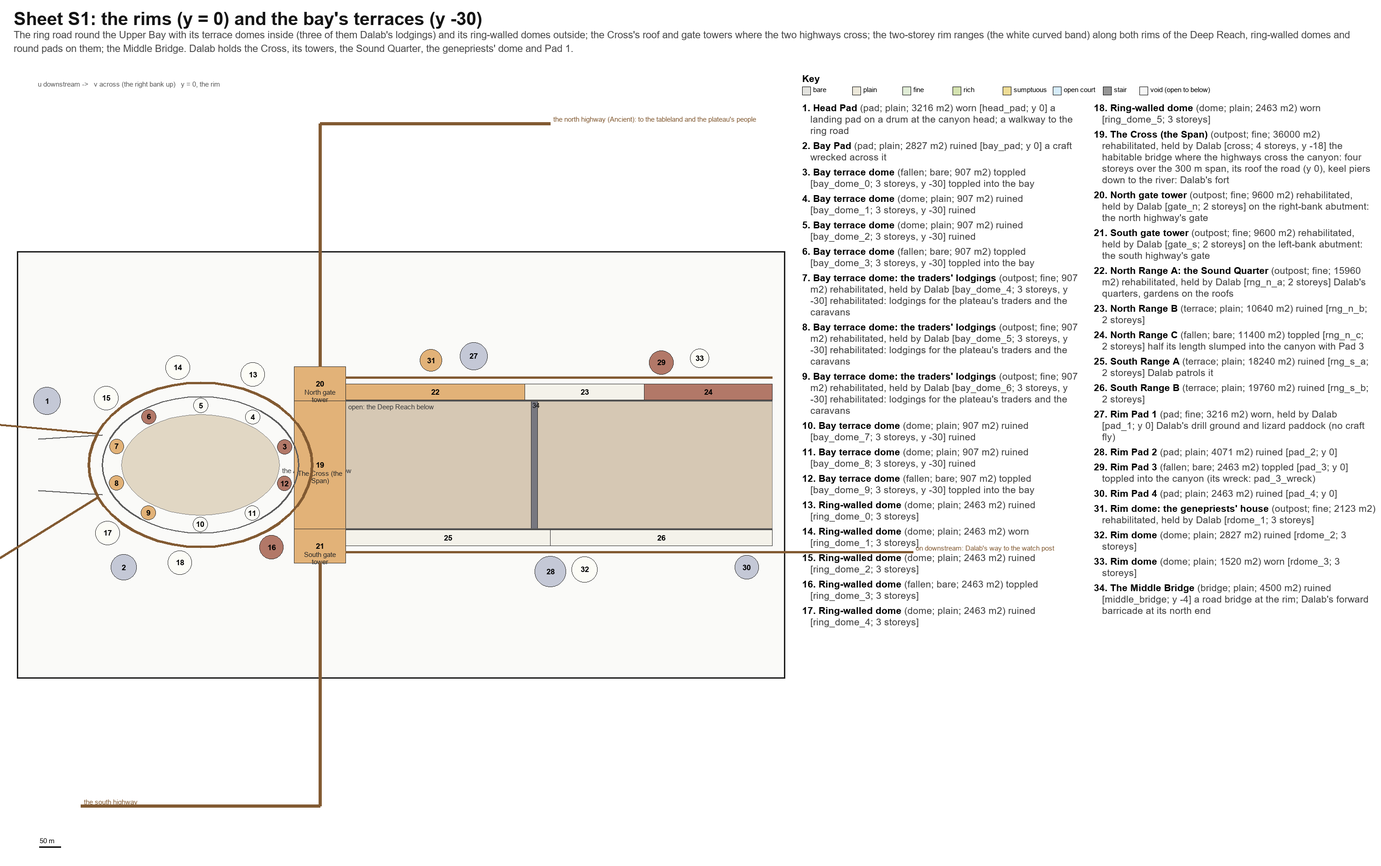
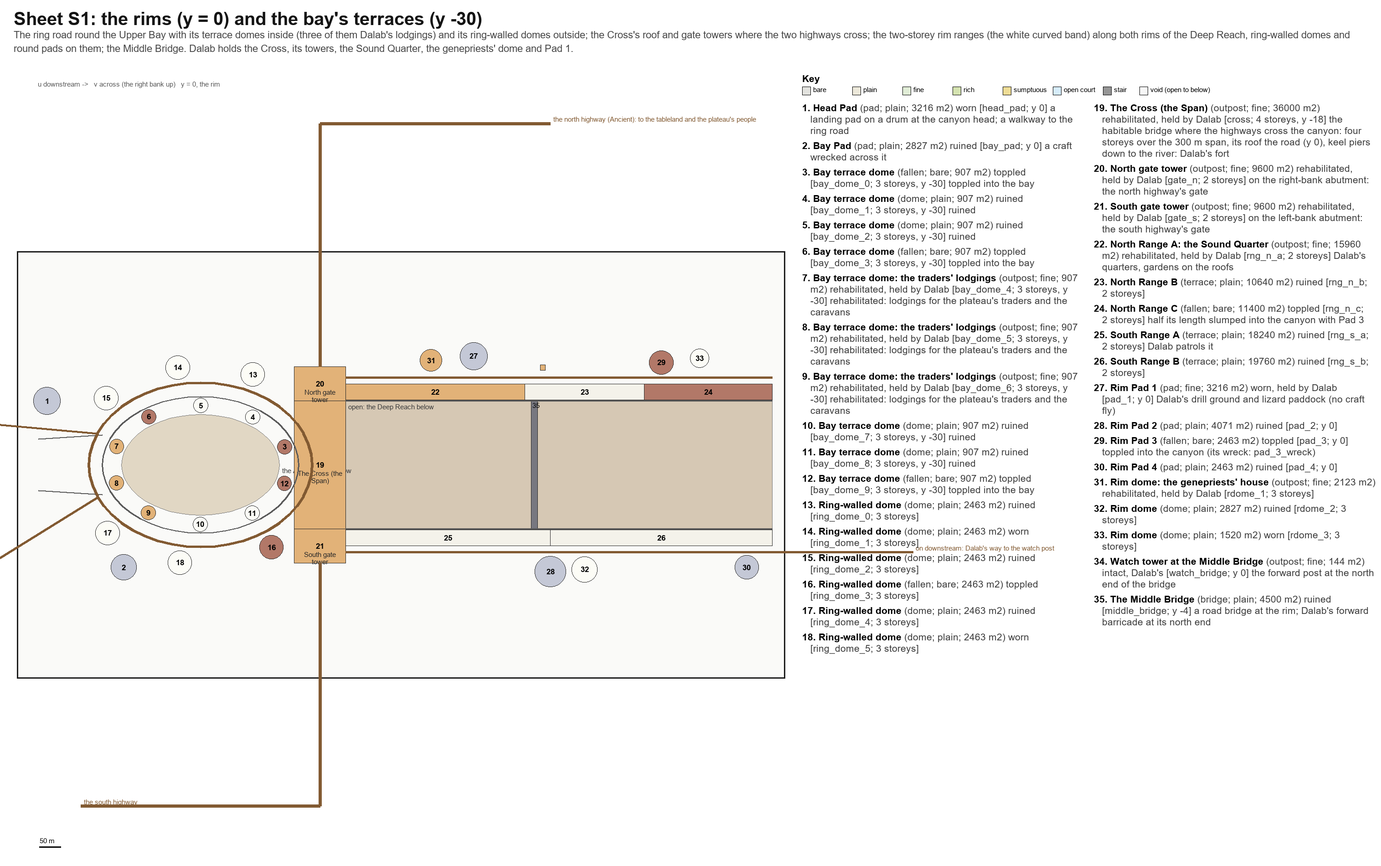
settlements/span: SP4, Dalab's fort and trading post from the Dalab set
The page reads the Dalab set in place (settlements/dalab/src: its Vernacular helpers, items,
dwellings, trade, town types, civic and sacred buildings, its library pack in a second sidecar)
and places Dalab's parts through VERN.place: the trading post on the Apron building by building
(market, customs, two warehouses, two inns, tavern, bath house, traders' houses and row, two
orchards, the caravan yard, the shrine), the mound, a watch tower at the Middle Bridge's north
end. The layout's records take each def's own footprint, and a page check holds them to it.
build.py now fails on a top-level name two fragments declare (Dalab's MATLIB_BOUND is renamed
at build time; Span takes Dalab's vWorldUV, not core/materials' opt-in one). The Line, banners
and the orchards' trees are left (KNOWN_ISSUES). kits/ancients span parts: the Cross's
sub-frames save and restore KXF instead of calling useGroupXF/endGroupXF, which Dalab's helpers
turn into a stack (same geometry: 428,372 triangles, verify --assert passes).

Changed region(s): [[0.7756, 0.1242, 0.9927, 0.7142], [0.5894, 0.7142, 0.6515, 0.7763], [0.6825, 0.7142, 0.7135, 0.7453]]

diff --git a/settlements/span/src/30-span-layout.js b/settlements/span/src/30-span-layout.js
@@ -64,7 +64,7 @@ P('lake_ring', 'The Lake Ring', 'ringsite', C(-1500, -570, 150), { h: 14, st: 3,
 P('weir', 'The Weir', 'weir', B(-1070, -1030, -90, 90), { y: -8, h: 10, state: 'worn', key: 'anc_weir', walk: false, types: ['infrastructure'], sheets: S0, note: 'the sluice dam at the lake\'s outlet: holds the lake 8 m up; Pan Riba spills through it' });
 P('dome_lone_1', 'Lone dome', 'dome', C(-1200, 520, 16), { h: 14, st: 3, home: .5, state: 'worn', key: 'anc_ring_dome', sheets: S0 });
 P('dome_lone_2', 'Lone dome', 'dome', C(-760, -560, 14), { h: 6, state: 'toppled', key: 'anc_ring_dome', walk: false, sheets: S0 });
-P('mound', 'Dalab\'s mound', 'mound', C(-300, -430, 40), { h: 16, by: 'dalab', state: 'intact', key: 'dalab_mound', types: ['religious'], sheets: S0, note: 'an earth mound imitating the domes, facing the lab (south-west): the priest-captain communes here' });
+P('mound', 'Dalab\'s mound', 'mound', B(-338, -262, -475, -385), { h: 28, by: 'dalab', state: 'intact', key: 'dalab_mound', types: ['religious'], sheets: S0, note: 'an earth mound imitating the domes, facing the lab (south-west): the priest-captain communes here' });
 
 // ---------------------------------------------------------------- the canyon head and the Upper Bay
 P('head_pad', 'Head Pad', 'pad', C(-880, 150, 32), { h: 9, state: 'worn', key: 'anc_pad_drum', types: ['infrastructure'], sheets: ['S0', 'S1'], note: 'a landing pad on a drum at the canyon head; a walkway to the ring road' });
@@ -88,21 +88,27 @@ P('bay_pad', 'Bay Pad', 'pad', C(-700, -240, 30), { h: 8, state: 'ruined', key: 
 
 // ---------------------------------------------------------------- the Apron: Dalab's trading post (sheet S2)
 P('apron', 'The Apron', 'deck', O(-520, 0, 185, 118), { y: -45, h: 2, state: 'rehab', held: true, key: 'anc_apron', types: ['plaza'], dress: false, sheets: S2, note: 'the bay\'s deck over the river\'s slot, cleared by Dalab for the trading post' });
-P('apron_wreck', 'Derelict craft', 'craft', C(-620, 75, 14), { y: -45, h: 9, state: 'ruined', in: 'apron', held: true, walk: false, dress: false, key: 'anc_craft', sheets: S2, note: 'a lander, broken-backed: the one wreck Dalab left (too heavy to strip)' });
+P('apron_wreck', 'Derelict craft', 'craft', C(-560, 80, 14), { y: -45, h: 9, state: 'ruined', in: 'apron', held: true, walk: false, dress: false, key: 'anc_craft', sheets: S2, note: 'a lander, broken-backed: the one wreck Dalab left (too heavy to strip)' });
 P('basin_portal', 'The Basin Tunnel\'s upper portal', 'portal', C(-570, -160, 18), { y: -45, h: 14, state: 'intact', held: true, key: 'anc_tunnel_portal', types: ['infrastructure', 'military'], sheets: ['S0', 'S2'], note: 'in the bay\'s left wall: the Ancient road tunnel down to the basin, intact, cleared; Dalab\'s gate and wardens' });
 P('tunnel_road', 'The Tunnel Road', 'ramp', B(-580, -560, -142, -116), { y: -45, h: 1, state: 'intact', held: true, key: 'anc_ramp', types: ['infrastructure'], sheets: S2, note: 'the ramp from the portal down onto the Apron' });
 function T(id, name, key, b, o){ o.in = 'apron'; o.y = -45; o.by = 'dalab'; o.state = 'intact'; o.key = key; o.sheets = S2; o.dress = false; return P(id, name, 'dalab', b, o); }
-T('market', 'Market', 'dalab_market_large', B(-560, -480, -60, 10), { h: 8, types: ['market'], note: 'the trading post\'s heart: where Dalab trades with the plateau\'s people (who they are: TBD)' });
-T('customs', 'Customs', 'dalab_scribes', B(-545, -521, -100, -80), { h: 9, types: ['civic'], note: 'the scribes\' hall at the tunnel road: tolls, tallies, the priests\' cut' });
-T('warehouses', 'Warehouses', 'dalab_warehouse', B(-470, -410, -90, -50), { h: 9, types: ['industry'] });
+// each a building of the Dalab set (settlements/dalab, read in place) at its own footprint (its def's w by d), its front
+// toward the Apron's long axis; SP4 (2026-10-27)
+T('market', 'Market', 'dalab_market_large', B(-552, -488, -57, 7), { h: 8, types: ['market'], note: 'the trading post\'s heart: where Dalab trades with the plateau\'s people (who they are: TBD)' });
+T('customs', 'Customs', 'dalab_scribes', B(-557, -533, -100, -80), { h: 9, types: ['civic'], note: 'the scribes\' hall at the tunnel road: tolls, tallies, the priests\' cut' });
+T('warehouse_1', 'Warehouse', 'dalab_warehouse', B(-484, -456, -85, -65), { h: 9, types: ['industry'] });
+T('warehouse_2', 'Warehouse', 'dalab_warehouse', B(-454, -426, -85, -65), { h: 9, types: ['industry'] });
 T('inn_tunnel', 'Inn of the tunnel', 'dalab_inn', B(-640, -608, -80, -50), { h: 10, types: ['inn'], note: 'lizard stalls and a lodge: the tunnel\'s caravans' });
 T('inn_plateau', 'Inn of the plateau', 'dalab_inn', B(-460, -428, 20, 50), { h: 10, types: ['inn'], note: 'the plateau traders\' inn' });
-T('tavern', 'Tavern', 'dalab_tavern', B(-600, -575, 0, 25), { h: 7, types: ['tavern'] });
-T('bathhouse', 'Bath house', 'dalab_bathhouse', B(-445, -420, -20, 3), { h: 8, types: ['civic'] });
-T('traders', 'Traders\' houses', 'dalab_hut_c', B(-660, -620, 10, 60), { h: 7, types: ['dwelling-multi'], note: 'the resident traders: timber frames, as the caste builds (with dalab_rowhouse)' });
-T('fields', 'Fields and lizard pens', 'dalab_orchard', B(-690, -662, -35, 35), { h: 2, types: ['farm'], note: 'the Apron\'s upstream end' });
-T('caravan_yard', 'Caravan yard', 'dalab_yard', B(-400, -360, -40, 40), { h: 3, types: ['market'], note: 'lizard trains made up and broken; a ramp up to the Cross\'s lizard stalls' });
-T('shrine', 'Shrine', 'dalab_shrine', C(-500, 75, 8), { h: 6, types: ['religious'], note: 'faces the lab' });
+T('tavern', 'Tavern', 'dalab_tavern', B(-609, -583, 2, 28), { h: 14, types: ['tavern'] });
+T('bathhouse', 'Bath house', 'dalab_bathhouse', B(-444.5, -419.5, -23.5, -.5), { h: 8, types: ['civic'] });
+T('trader_house_1', 'Trader\'s house', 'dalab_hut_c', B(-656, -644, 19, 31), { h: 7, types: ['dwelling-single'], note: 'the trader caste builds in timber frames' });
+T('trader_house_2', 'Trader\'s house', 'dalab_hut_c', B(-656, -644, 39, 51), { h: 7, types: ['dwelling-single'] });
+T('trader_row', 'Traders\' terrace row', 'dalab_rowhouse', B(-638, -618, 55, 69), { h: 7, types: ['dwelling-multi'] });
+T('orchard_1', 'Orchard plot', 'dalab_orchard', B(-686, -664, -25, -3), { h: 5, types: ['farm'], note: 'the Apron\'s upstream end' });
+T('orchard_2', 'Orchard plot', 'dalab_orchard', B(-686, -664, -1, 21), { h: 5, types: ['farm'] });
+T('caravan_yard', 'Caravan yard', 'dalab_market_small', B(-394, -366, -14, 14), { h: 6, types: ['market'], note: 'lizard trains made up and broken; a ramp up to the Cross\'s lizard stalls' });
+T('shrine', 'Shrine', 'dalab_shrine', B(-504, -496, 71, 79), { h: 6, types: ['religious'], note: 'faces the lab' });
 
 // ---------------------------------------------------------------- the Cross: Dalab's fort (sheets S0-S2, S4)
 P('cross', 'The Cross (the Span)', 'cross', B(-300, -180, -150, 150), { y: -18, h: 18, st: 4, home: .3, state: 'rehab', held: true, key: 'anc_cross', types: ['military'], sheets: ['S0', 'S1', 'S2'], note: 'the habitable bridge where the highways cross the canyon: four storeys over the 300 m span, its roof the road (y 0), keel piers down to the river: Dalab\'s fort' });
@@ -141,6 +147,7 @@ P('pad_4', 'Rim Pad 4', 'pad', C(760, -240, 28), { h: 8, state: 'ruined', key: '
 P('rdome_1', 'Rim dome: the genepriests\' house', 'dome', C(20, 245, 26), { h: 20, st: 3, home: .5, state: 'rehab', held: true, key: 'anc_ring_dome', types: ['civic'], sheets: S1 });
 P('rdome_2', 'Rim dome', 'dome', C(380, -245, 30), { h: 22, st: 3, home: .5, state: 'ruined', key: 'anc_ring_dome', sheets: S1 });
 P('rdome_3', 'Rim dome', 'dome', C(650, 250, 22), { h: 18, st: 3, home: .5, state: 'worn', key: 'anc_ring_dome', sheets: S1 });
+P('watch_bridge', 'Watch tower at the Middle Bridge', 'dalab', B(276, 288, 222, 234), { h: 17, by: 'dalab', state: 'intact', key: 'dalab_watchtower', types: ['military'], sheets: S1, note: 'the forward post at the north end of the bridge' });
 P('middle_bridge', 'The Middle Bridge', 'bridge', B(255, 270, -150, 150), { y: -4, h: 4, state: 'ruined', key: 'anc_road_bridge', types: ['infrastructure'], sheets: S1, note: 'a road bridge at the rim; Dalab\'s forward barricade at its north end' });
 
 // ---------------------------------------------------------------- the walls (sheet S2): galleries on the benches, the service ledges, two bridges
@@ -207,6 +214,7 @@ K('gate_n', 'hw_north', { gate: 'the north gate', state: 'open' }); K('gate_s', 
 K('cross', 'ring_road', { gate: 'the bay gate', state: 'open' });
 K('gate_n', 'rim_n', { gate: 'the quarter gate', state: 'open' }); K('gate_s', 'rim_s', { gate: 'the rim gate', state: 'open' });
 K('mound', 'hw_south', { gate: 'the mound way', state: 'open' });
+K('watch_bridge', 'rim_n', { gate: 'the tower door', state: 'open' });
 K('cross', 'line', { kind: 'stair' }); K('line', 'floor_road', { gate: 'the Line\'s gate', state: 'closed' });
 K('gate_n', 'rng_n_a'); K('rng_n_a', 'gal_n40a', { kind: 'stair' }); K('rng_n_a', 'rdome_1'); K('rng_n_a', 'pad_1');
 K('gal_n40a', 'gal_n85', { gate: 'the salvage wall', state: 'closed' });

diff --git a/kits/ancients/targets/span/8as0-span-parts.js b/kits/ancients/targets/span/8as0-span-parts.js
@@ -28,6 +28,9 @@ function spanU(sd,a,b,c){return KRAND.unit(KRAND.hash(sd>>>0,a|0,b|0,c|0));}
 function spanBreak(d){return d===0?0:(d===2?.22:.16)*HOLES;}
 function spanStateName(d){return d===0?'intact':d===2?'toppled':d===3?'rehab':'ruined';}
 
+// A SUB-FRAME (the Cross's faces and towers) is set by saving KXF, putting the sub-group's matrix in the site group's frame
+// in it, and restoring it: never through useGroupXF / endGroupXF, which a page may have turned into a stack (Dalab's
+// 69c-vern-helpers.js composes nested groups), so a hand-set frame between them would leak.
 // ---- the frame: G at the site, P at the base turned by ry; kit instances follow P -----------------------------------
 function spanFrame(scene,gx,gz,o){const G=new THREE.Group();G.position.set(gx,0,gz);scene.add(G);
  const P=new THREE.Group();P.position.set(0,o.y||0,0);P.rotation.y=o.ry||0;G.add(P);
@@ -222,11 +225,11 @@ function buildSpanCross(scene,gx,gz,d,o){reseed(SPAN_SEED.cross+d);o=o||{};
  const levels=[];for(let k=0;k<st;k++)levels.push({y:-BH+k*sh,h:sh,zb:-1,zf:2.2+k*1.2});
  [[-1,'up'],[1,'down']].forEach(([s,nm])=>{
   const P2=new THREE.Group();P2.position.set(s*W/2,0,s>0?S/2:-S/2);P2.rotation.y=s>0?Math.PI/2:-Math.PI/2;F.P.add(P2);
-  endGroupXF();F.G.updateMatrixWorld(true);
+  const keep=KXF;F.G.updateMatrixWorld(true);
   const m=new THREE.Matrix4().copy(F.G.matrixWorld).invert().multiply(P2.matrixWorld),q=new THREE.Quaternion();m.decompose(new THREE.Vector3(),q,new THREE.Vector3());
   KXF={m:m,q:q};
   spanBand(KRAND.hash(sd,s+3),S,8,levels,d,{gap:gap?(s>0?[S/2-gap[1],S/2-gap[0]]:[gap[0]+S/2,gap[1]+S/2]):null,back:false});
-  useGroupXF(F.P);});
+  KXF=keep;});
  // the deck (the road) with its guideway, parapets; the soffit and the keel piers; the ends against the abutments
  const SH=[],DK=[],nz=Math.round(S/10);
  for(let i=0;i<nz;i++){const z0=-S/2+i*S/nz,zc=z0+S/(2*nz);if(inGap(zc))continue;
@@ -247,12 +250,12 @@ function buildSpanCross(scene,gx,gz,d,o){reseed(SPAN_SEED.cross+d);o=o||{};
  [-1,1].forEach(s=>{const zc=s*(S/2+GT/2);
   [-1,1].forEach(t=>{const xc=t*(W/4+5),gl=[{y:0,h:sh,zb:-GT/2,zf:GT/2},{y:sh,h:sh,zb:-GT/2+2,zf:GT/2-2}];
    const P3=new THREE.Group();P3.position.set(xc-(W/2-10)/2,0,zc);F.P.add(P3);
-   endGroupXF();F.G.updateMatrixWorld(true);
+   const keep=KXF;F.G.updateMatrixWorld(true);
    const m=new THREE.Matrix4().copy(F.G.matrixWorld).invert().multiply(P3.matrixWorld),q=new THREE.Quaternion();m.decompose(new THREE.Vector3(),q,new THREE.Vector3());
    KXF={m:m,q:q};
    // the tower is a short band along x (its depth along z): turn the levels so its front faces the road end
    spanBand(KRAND.hash(sd,s+11,t+21),W/2-10,8,gl.map(l=>({y:l.y,h:l.h,zb:-l.zf,zf:l.zf})),d,{back:true});
-   useGroupXF(F.P);});
+   KXF=keep;});
   kput(d>0?'archR':'arch',[0,0,zc],null,[1.3,.55,1],null);});
  [-1,1].forEach(s=>kput(PLATE(d),[0,-BH/2,s*(S/2-.3)],null,[W,BH,.6],null));
  if(gap){spanDebris(sd,-W/2,W/2,-BH-KL,gap[0]-10,(gap[1]-gap[0])+20,140,d);}

diff --git a/settlements/span/src/8at-host-place.js b/settlements/span/src/8at-host-place.js
@@ -86,11 +86,17 @@ const SP=(function(){const L=SPAN_LAYOUT,F=SPAN_FRAME,T=KTAGS.create({build:'spa
   ramp(p){const s=p.shape;box('spRoad',s[1],s[2],s[3],s[4],p.y,p.y+.4);placed.push(p.id);},
   bay(p){placed.push(p.id);},   /* the bay is the ground's (SPAN.groundAt) */
  };
- // Dalab's own (SP4 takes the Dalab set: settlements/dalab's registry, read in place): boxes at their footprints till then
+ // DALAB'S OWN (SP4): a part whose key is a Dalab set def (settlements/dalab, read in place) goes through its registry,
+ // VERN.place, at the part's footprint centre on its base (a part on the Apron stands on the deck's top), its front (+z)
+ // toward the Apron's long axis (v 0), a variant by the part's own seed; the Line has no def yet and is drawn from the
+ // kit's items (KNOWN_ISSUES.md)
+ const DALAB_PLACED=[];
  function dalabStandIn(p){const s=p.shape,b=SPAN.bbox(s),y0=p.in?SPAN.byId(L)[p.in].y+SPAN.byId(L)[p.in].h:p.y,h=Math.max(2,p.h);
-  if(p.kind==='mound'){const w=W(s[1],s[2],y0),G=new THREE.Group();G.position.set(w[0],w[1],w[2]);scene.add(G);
-   mesh(new THREE.CylinderGeometry(s[3]*.45,s[3],h,32,1).translate(0,h/2,0),MAT.mud||MAT.rock,G);}
-  else if(p.kind==='wall'){for(let v=b[2];v<b[3];v+=6)box(KRAND.unit(KRAND.hash(seedOf(p),v|0))<.5?'plateR':'boxCR',b[0],b[1],v,v+5.6,y0,y0+h*(.75+.25*KRAND.unit(KRAND.hash(seedOf(p),v|0,2))));}
+  if(p.key&&typeof VERN!=='undefined'&&VERN.defs[p.key]){const cu=(b[0]+b[1])/2,cv=(b[2]+b[3])/2,w=W(cu,cv,0),ry=(cv>0?Math.PI:0)-F.ang;
+   TSTAT.cur=p.kind+'/'+p.id;const G=VERN.place(scene,p.key,w[0],w[2],ry,{y:y0,v:KRAND.hash(seedOf(p),7)%3});
+   if(G)DALAB_PLACED.push({id:p.id,key:p.key,w:b[1]-b[0],d:b[3]-b[2],def:[VERN.defs[p.key].w,VERN.defs[p.key].d]});else missing.push(p.id);
+   placed.push(p.id);return;}
+  if(p.kind==='wall'){for(let v=b[2];v<b[3];v+=6)box(KRAND.unit(KRAND.hash(seedOf(p),v|0))<.5?'plateR':'boxCR',b[0],b[1],v,v+5.6,y0,y0+h*(.75+.25*KRAND.unit(KRAND.hash(seedOf(p),v|0,2))));}
   else box('boxC',b[0],b[1],b[2],b[3],y0,y0+h,new THREE.Color(0xc9a27a));
   placed.push(p.id);}
  const t0=performance.now();
@@ -99,4 +105,4 @@ const SP=(function(){const L=SPAN_LAYOUT,F=SPAN_FRAME,T=KTAGS.create({build:'spa
   const f=BUILD[p.kind];if(!f){missing.push(p.id);return;}
   try{f(p);}catch(e){reportErr(p.id+': '+(e.stack||e));}});
  TSTAT.cur=null;kbake(scene);
- return {placed,missing,ms:Math.round(performance.now()-t0),tags:T};})();
+ return {placed,missing,dalab:DALAB_PLACED,ms:Math.round(performance.now()-t0),tags:T};})();

diff --git a/settlements/span/src/99-host-take.js b/settlements/span/src/99-host-take.js
@@ -22,6 +22,10 @@ KHOST.on(SKY.view,'view');   /* the shared sky, its lights and fog at the hour (
 function spanChecks(){const L=SPAN_LAYOUT,R=[];
  SPAN.checks(L).forEach(c=>R.push({name:'layout: '+c.name,ok:c.pass,detail:c.detail.trim()}));
  R.push({name:'every part placed',ok:SP.missing.length===0&&SP.placed.length>=L.parts.length,detail:SP.placed.length+' placed of '+L.parts.length+(SP.missing.length?'; no builder for '+SP.missing.join(', '):'')+' ('+SP.ms+' ms)'});
+ // every Dalab building is a def of the Dalab set, and its record's footprint is the def's own (w by d, within a metre)
+ const keyed=SPAN_LAYOUT.parts.filter(p=>p.by==='dalab'&&p.kind!=='wall'),badD=keyed.filter(p=>{const q=SP.dalab.find(x=>x.id===p.id);
+  return !q||Math.abs(q.w-q.def[0])>1||Math.abs(q.d-q.def[1])>1;}).map(p=>{const q=SP.dalab.find(x=>x.id===p.id);return p.id+(q?' '+q.w+'x'+q.d+' vs '+q.def.join('x'):' (no def '+p.key+')');});
+ R.push({name:'every Dalab building is a Dalab set def at its own footprint',ok:keyed.length>0&&!badD.length,detail:SP.dalab.length+' placed through VERN.place'+(badD.length?'; '+badD.join(', '):'')});
  const A=SP.tags.audit();R.push({name:'tags: known vocabulary, a culture each',ok:A.unknown===0&&!A.missingCulture,detail:A.records+' records, unknown '+A.unknown+', missing culture '+A.missingCulture});
  return R;}
 function spanNegatives(){const L=JSON.parse(JSON.stringify(SPAN_LAYOUT)),R=[];
@@ -30,7 +34,7 @@ function spanNegatives(){const L=JSON.parse(JSON.stringify(SPAN_LAYOUT)),R=[];
  R.push({name:'the Tunnel Road removed fails the walk check',ok:!SPAN.checks(M).find(c=>/walkable part is reached/.test(c.name)).pass});
  return R;}
 KHOST.take({build:'span',title:'Span',
- hint:'Span: the ruined Ancient arcology in Pan Riba\'s canyon, Dalab\'s fort and trading post (settlements/span/PLAN.md). The ground is a stand-in, the layout\'s own section, until the SW highlands station carves the canyon; Dalab\'s buildings are boxes until SP4.',
+ hint:'Span: the ruined Ancient arcology in Pan Riba\'s canyon, Dalab\'s fort and trading post (settlements/span/PLAN.md). The ground is a stand-in, the layout\'s own section, until the SW highlands station carves the canyon. Dalab\'s buildings are the Dalab set\'s (settlements/dalab, read in place).',
  scene,camera,renderer,ground:(x,z)=>SPAN.groundAt(SPAN_LAYOUT,x,z),clear:1.6,minR:2,maxR:9000,registry:REG,views:VIEWS,ticks:TICKS,
  clock:{hour:ATMOS.SKY.viewHour},draw:SKY.draw,
  records:()=>SP.tags.query({}),

diff --git a/settlements/span/src/69f-host-dalab.js b/settlements/span/src/69f-host-dalab.js
@@ -1,0 +1,7 @@
+// ================================================================= HOST — the Dalab set on this page
+// The Dalab set (settlements/dalab/src, read in place: 69b-73, 88y) asks the page for its garden trees and plants
+// (dnTree, dnPlant: on Dalab's own page the south-western lowlands' biome kit, 86-bio-45-init.js). Span's flora is the SW
+// highlands kit's dress pass (PLAN.md section 5), not yet on this page: until it is, an orchard's trees and a shrine's
+// plants ask for nothing and are left out (KNOWN_ISSUES.md).
+function dnTree(){return null;}
+function dnPlant(){return false;}

diff --git a/kits/ancients/dist/span.html b/kits/ancients/dist/span.html
@@ -1,3 +1,3 @@
 version https://git-lfs.github.com/spec/v1
-oid sha256:499f4228a05cf8cb9a9debc57d762a0e12f65f753c23aba061143b8eceb97944
-size 2594876
+oid sha256:ba50fb5d75558869aa1b587c6d5b3ea3312de91f738f5f20f9a06c44223e48be
+size 2595202

diff --git a/settlements/span/dist/span.html b/settlements/span/dist/span.html
@@ -1,3 +1,3 @@
 version https://git-lfs.github.com/spec/v1
-oid sha256:dacf56cc73de076facbb5531f804ac5246a04fb26eee23688ad4213e9120e5fd
-size 569056
+oid sha256:8b22ad361877f968039e391d4290bd9e0dfe0d8fdb88b489d8bd29e89a1ce67f
+size 750043

diff --git a/settlements/span/dist/span.tex.dalab.js b/settlements/span/dist/span.tex.dalab.js
@@ -1,0 +1,3 @@
+version https://git-lfs.github.com/spec/v1
+oid sha256:ed602ccc5977f37c18dc73afa899289c67953db66da2b0985bf486e14cfe0eb1
+size 14580976

diff --git a/settlements/span/build.py b/settlements/span/build.py
@@ -71,10 +71,23 @@ CORE_MATERIALS = ['20-textures.js', '22-materials.js', '68-mat-v5.js']
 for f in KIT_RUNTIME + CORE_MATERIALS:
     p = os.path.join(ANC, 'src', f)
     PATH[f] = p if os.path.isfile(p) else core('materials', f)
-PATH['69a-world-uv.js'] = core('materials', 'opt', '69a-world-uv.js')
+# (not core/materials/opt/69a-world-uv.js: the Dalab set's 69b-vern-mat.js declares its own vWorldUV, the one the set is
+# tested with, and none of the kit's fragments here calls it)
 for f in ('23-mat-record.js', '25-matlib-host.js', '26-matlib-bind.js'):
     PATH[f] = core('materials', 'record', f)
 PATH['8as0-span-parts.js'] = os.path.join(ANC, 'targets', 'span', '8as0-span-parts.js')
+
+# THE DALAB SET, read in place (settlements/dalab/src; SP4): the Vernacular helpers it runs on (its own copies, which it is
+# tested against), its items and helpers, the dwellings, trade, town types, civic and sacred buildings, and its binding of
+# its library pack. Not taken: the ranch (74), the trades table (77), its light (94: no night here yet), its tags (91t:
+# Span registers the layout's records), its biome (86-bio-*: Span's flora is the SW highlands kit's).
+DALAB = os.path.join(ROOT, 'settlements', 'dalab')
+DALAB_SET = ['69b-vern-mat.js', '69c-vern-helpers.js', '69d-dalab-mat.js', '69e-dalab-helpers.js', '70-dalab-dwellings.js',
+             '71-dalab-trade.js', '71c-dalab-town.js', '72-dalab-civic.js', '73-dalab-sacred.js', '88y-dalab-matlib.js']
+for f in DALAB_SET:
+    PATH[f] = os.path.join(DALAB, 'src', f)
+# build-time renames where two sets read in place declare the same name (the files on disk are untouched)
+SUBST = {'88y-dalab-matlib.js': [(r'\bMATLIB_BOUND\b', 'MATLIB_BOUND_DALAB')]}
 
 # core/rand, core/tags (core/space comes with the host's FULL list)
 CORE_RAND = ['08-core-rand.js']
@@ -104,7 +117,9 @@ if own:
 sys.path.insert(0, os.path.join(ROOT, 'tools', 'textures'))
 import matlib_pack
 SIDE = {}
-VIRTUAL = {'88x-matlib-pack.js': matlib_pack.fragment(ANC, 'ancients', side=SIDE), khost.EDITS_JS: khost.edits_js(HERE, 'span')}
+VIRTUAL = {'88x-matlib-pack.js': matlib_pack.fragment(ANC, 'ancients', side=SIDE),
+           '88x-matlib-pack-dalab.js': matlib_pack.fragment(DALAB, 'dalab', side=SIDE),
+           khost.EDITS_JS: khost.edits_js(HERE, 'span')}
 for f in VIRTUAL:
     PATH[f] = None
 
@@ -113,10 +128,24 @@ if missing:
     sys.exit('missing fragments: ' + ', '.join('%s (%s)' % (f, PATH[f]) for f in missing))
 frags = sorted(PATH)
 out = []
+# one shared scope: a name two fragments both declare at column 0 is a clash (a function silently replaces the other)
+DECL = re.compile(r'^(?:function\s+([A-Za-z_$][\w$]*)\s*\(|(?:const|let|var)\s+([A-Za-z_$][\w$]*)\s*=)', re.M)
+seen, clash = {}, []
 for f in frags:
     s = VIRTUAL[f] if PATH[f] is None else open(PATH[f], encoding='utf-8').read()
+    for rx, rep in SUBST.get(f, []):
+        s = re.sub(rx, rep, s)
+    code = re.sub(r'^\s*(//[^\n]*\n|/\*.*?\*/\s*)*', '', s, flags=re.S)
+    if f.endswith('.js') and not re.match(r'[;(]*\s*\(?\s*(function|\(\)\s*=>)', code):   # a fragment that is one closure declares nothing shared
+        for m in DECL.finditer(s):
+            n = m.group(1) or m.group(2)
+            if n in seen and seen[n] != f:
+                clash.append('%s (%s, %s)' % (n, seen[n], f))
+            seen.setdefault(n, f)
     out.append('\n// ==================== %s\n' % f if f.endswith('.js') else '')
     out.append(s)
+if clash:
+    sys.exit('top-level names declared twice: ' + '; '.join(clash))
 os.makedirs(DIST, exist_ok=True)
 html = ''.join(out)
 html = matlib_pack.write_sidecar(SIDE, html, DIST, 'span.tex.js')

diff --git a/settlements/span/KNOWN_ISSUES.md b/settlements/span/KNOWN_ISSUES.md
@@ -8,8 +8,19 @@
       `KCARVE` for the cuts) when that lands: PLAN.md section 5.
 - [ ] **No water**: the lake is a dry bed, the river, the falls and the sluices carry nothing. The water is the biome kit's
       (core/water); the page takes it with the station.
-- [ ] **Dalab's buildings are boxes** (the trading post, the Line, the mound, the shrine): SP4 takes the Dalab set
-      (`settlements/dalab`, read in place).
+- [x] ~~Dalab's buildings are boxes~~: SP4 (2026-10-27) places the Dalab set's own buildings (settlements/dalab, read in
+      place) through `VERN.place`: the market, customs, two warehouses, two inns, the tavern, the bath house, the traders'
+      houses and row, two orchards, the caravan yard, the shrine, the mound and the watch tower at the Middle Bridge.
+- [ ] **The Line has no Dalab def**: it is still a salvage wall drawn from the kit's items (plates and concrete blocks).
+      A `dalab_line` (a salvage wall with a gate, on the Dalab set's helpers) belongs in `settlements/dalab`'s set.
+- [ ] **No garden trees or plants in the Dalab buildings**: the set asks the page for them (`dnTree`, `dnPlant`), and this
+      page answers nothing (`src/69f-host-dalab.js`) until the SW highlands kit's flora is on it; the orchards stand empty.
+- [ ] **Dalab's patches on the held Ancient parts** are the kit's generic decay-3 `repairPass` (corrugate, timber, tarp);
+      no red banners, lamps or Dalab-built gates on the Cross and the Sound Quarter yet (the set's `dnBanner` and `dnGate`
+      need a def to run in).
+- [ ] The Dalab set runs on its own copies of Iziz's Vernacular helpers (`69b`, `69c`), which drift from `settlements/iziz`;
+      Span reads Dalab's, as the set is tested against them. Its `vWorldUV` replaces core/materials' opt-in one on this page
+      (no fragment here calls the latter's third argument).
 - [ ] **Stand-ins drawn by the page** where no builder exists yet: the hangars' fronts (a concrete fill to the bench, a door,
       two piers), the tanks (a lathe and hoops), the works (boxes), the bridges (a deck and two girders), the Pipe Bridge
       (sagging pipes and a ball per payload, until `kits/ancients` 63-canyon's `HANG` is read in), the wrecks and the service

diff --git a/settlements/span/PORT.md b/settlements/span/PORT.md
@@ -16,6 +16,7 @@ Columns: matching lines per API family. `canvas` is canvas 2D (texture painters)
 | `src/30-span-layout.js` | 26.3 | [G data] | 0 | 0 | 0 | 0 | 0 | 0 | 0 | 0 | 0 | 0 | 0 | the layout: every part, way, link and cut by id (the one source) |
 | `src/31-span-rules.js` | 21.4 | [G data] | 0 | 0 | 0 | 0 | 0 | 0 | 0 | 0 | 0 | 0 | 0 | no three.js, no geometry, no DOM |
 | `src/45-host-stage.js` | 3.8 | [web] | 10 | 0 | 1 | 0 | 0 | 1 | 0 | 0 | 0 | 0 | 0 |  |
+| `src/69f-host-dalab.js` | 0.6 | [web] | 0 | 0 | 0 | 0 | 0 | 0 | 0 | 0 | 0 | 0 | 0 | the Dalab set's garden trees and plants: none on this page yet |
 | `src/89z-host-sky.js` | 0.8 | [web] | 0 | 0 | 0 | 0 | 0 | 0 | 0 | 0 | 0 | 0 | 0 |  |
 | `src/8at-host-place.js` | 9.6 | [draw] | 12 | 0 | 0 | 0 | 2 | 21 | 0 | 0 | 0 | 0 | 0 | the layout's parts to the builders: no position decided here (the layout's) |
 | `src/99-host-take.js` | 3.3 | [web] | 0 | 0 | 0 | 0 | 0 | 0 | 0 | 0 | 0 | 0 | 0 | no three.js, no geometry, no DOM |
@@ -23,4 +24,4 @@ Columns: matching lines per API family. `canvas` is canvas 2D (texture painters)
 
 ## Notes
 
-Read in place, not tagged here: the Ancients kit's runtime and Span's pieces (`kits/ancients/PORT.md`), core/rand, core/space, core/tags, core/atmos, core/host. The pieces cross to Godot as meshes ([draw]); the layout and its rules ([G data]) port as they are, with `SPAN.groundAt` the section the station carves.
+Read in place, not tagged here: the Ancients kit's runtime and Span's pieces (`kits/ancients/PORT.md`), the Dalab set (`settlements/dalab/PORT.md`), core/rand, core/space, core/tags, core/atmos, core/host. The pieces cross to Godot as meshes ([draw]); the layout and its rules ([G data]) port as they are, with `SPAN.groundAt` the section the station carves.

diff --git a/settlements/span/PLAN.md b/settlements/span/PLAN.md
@@ -297,8 +297,12 @@ y = 0 today: `API.md` "Ground contact"), so each builder is called with its part
   inspector's volumes, two negatives). New in the layout on the way: the ground-contact rule (every part that stands on rock
   stands on `SPAN.groundAt`), the portals' and hangars' cuts, the lake's outline; the hangars cut back to the -130 bench
   (they ran under the -85 gallery). Gaps: `KNOWN_ISSUES.md`.
-- **SP4.** Dalab's fort and trading post from the Dalab set: the rehabilitated parts, the Line, the mound, the trading post
-  on the Apron, the Basin Tunnel's portal and the first of its bore (`KCAVERN`); the dress tags the biome kit reads.
+- **SP4.** *(done 2026-10-27, but the Line and the banners)* Dalab's fort and trading post from the Dalab set
+  (`settlements/dalab/src`, read in place: the Vernacular helpers, items, dwellings, trade, town types, civic, sacred, its
+  library pack in a second sidecar), placed through `VERN.place` at each record's footprint, which is the def's own (a page
+  check): the trading post on the Apron building by building, the mound (76 x 90), a watch tower at the Middle Bridge's
+  north end. The held Ancient parts carry the kit's decay-3 patches. Left: the Line (no Dalab def), banners and gates, the
+  orchards' trees (the flora is the biome kit's): `KNOWN_ISSUES.md`.
 - **SP5.** The watch post on station 4's tower (with that station).
 - **SP6.** The Cross's rooms (a blueprint per floor: `blueprints.md` step 6), `kits/interiors`; the life layer after.
 - **SP7.** `PORT.md`, the index tools, `tools/check_core_use.py`, the gallery.
